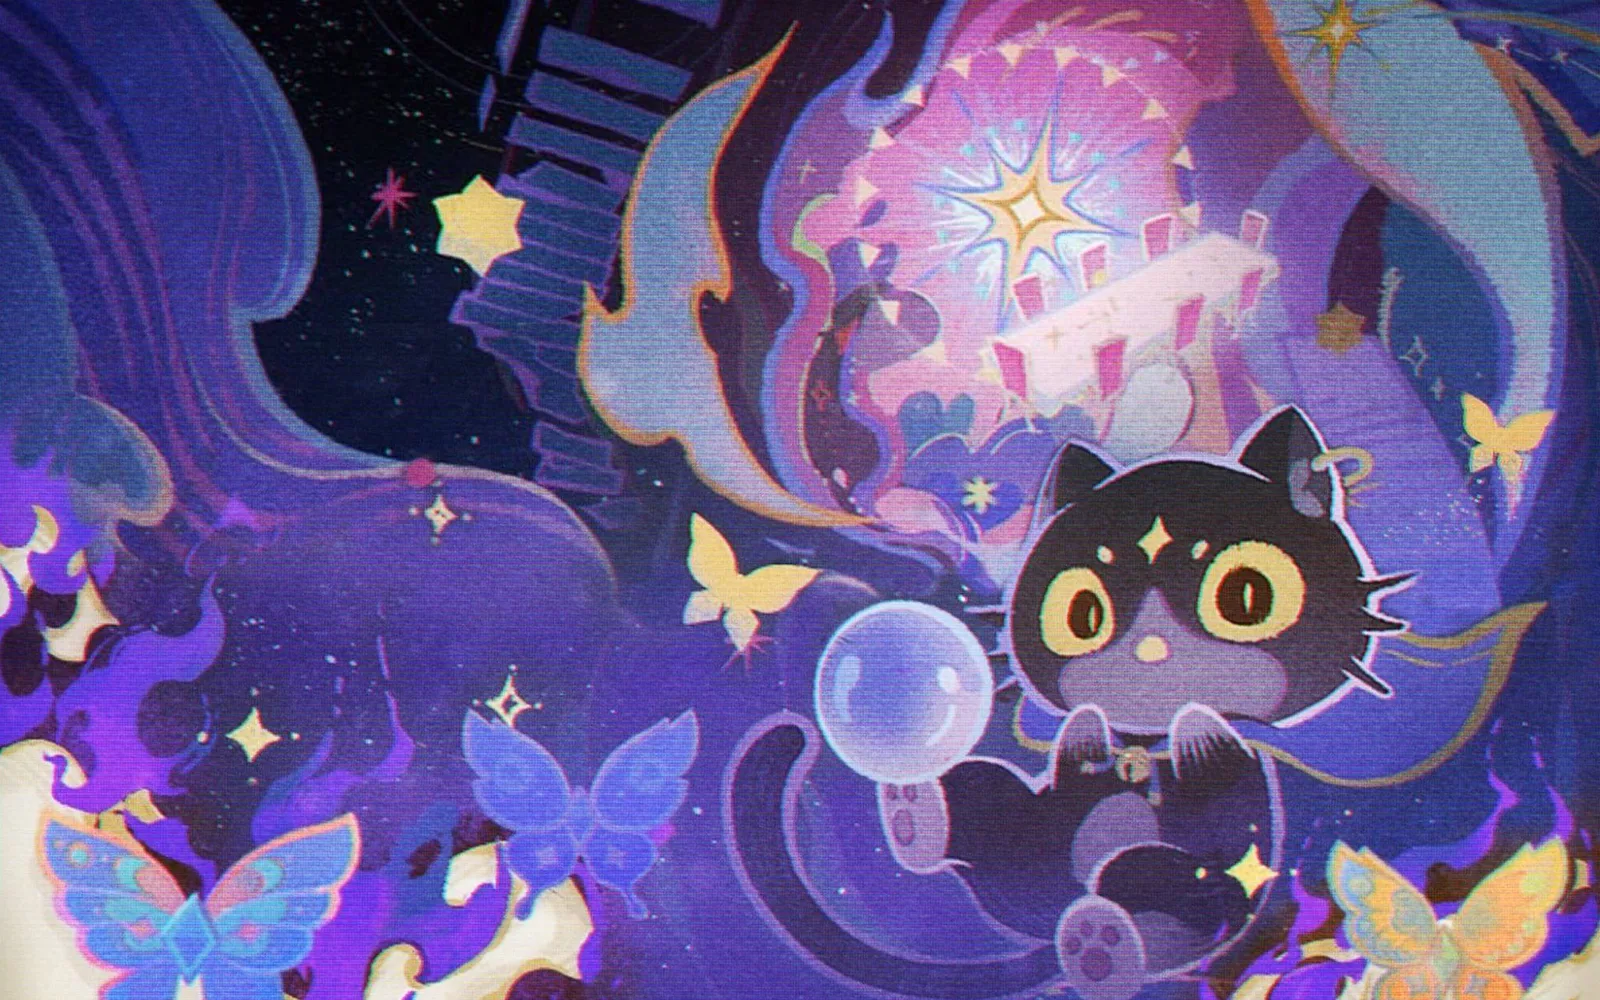
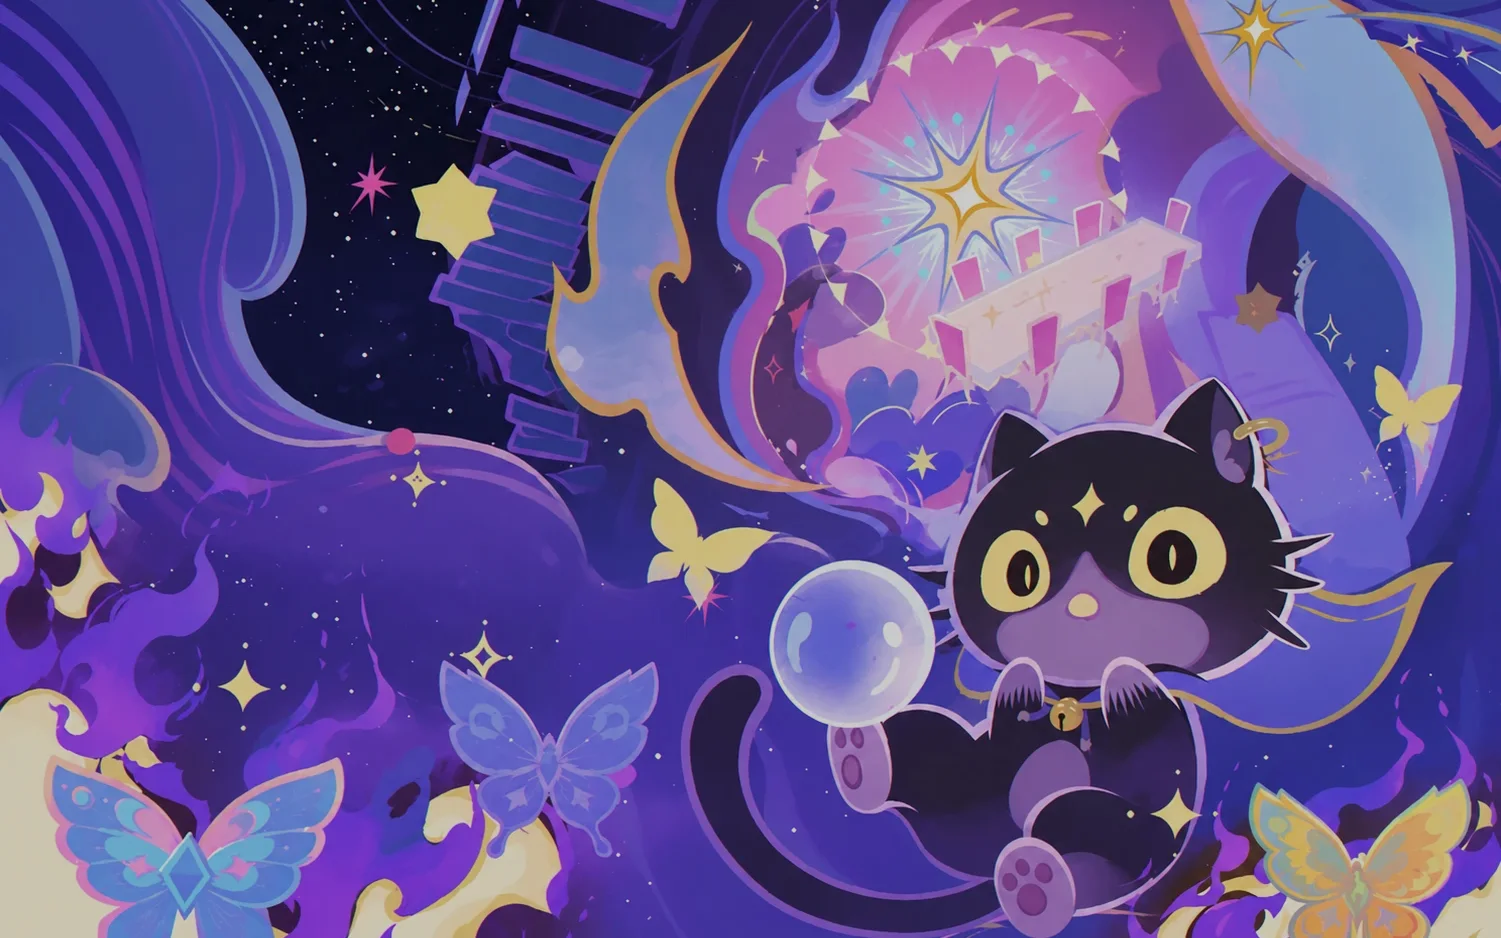
Écran : image de fond plus propre et plus douce

diff --git a/teyvin/RELEASE_NOTES.md b/teyvin/RELEASE_NOTES.md
@@ -4,8 +4,7 @@ Instructions are on [teyvin.app](https://teyvin.app/en/companion).
 
 ## Changes
 
-- New look, matching the site: new background, new logo and icon, Teyvin's fonts and colors. The steps now sit in a
-  list on the left.
+- Cleaner, softer background image.
 
 ## Credits
 
